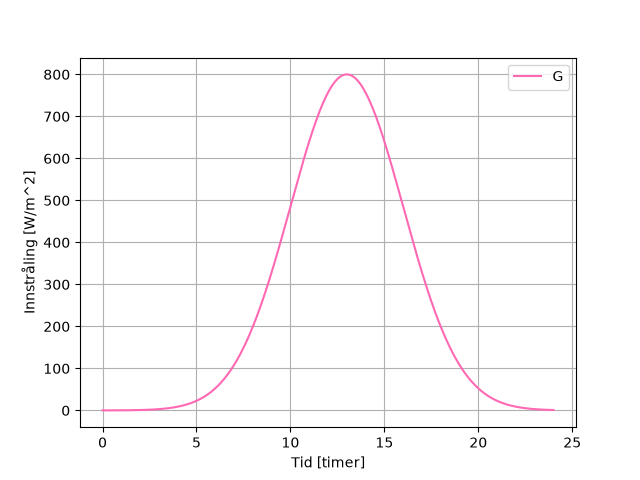
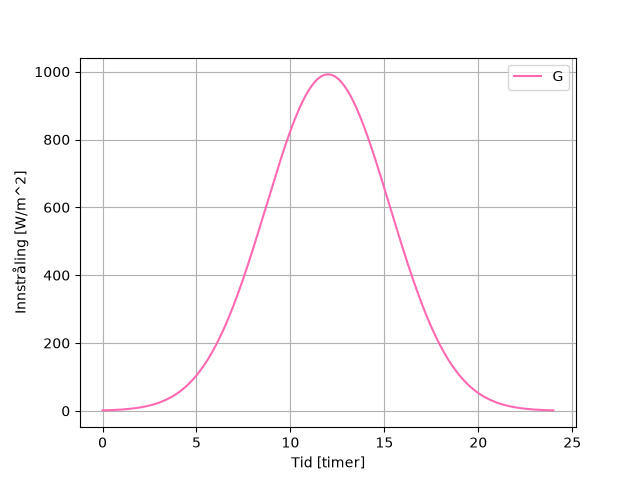
Oppgave 7: endrer modellen for å passe dataene, lagrer plot av resultatet

diff --git a/Oving6.py b/Oving6.py
@@ -8,9 +8,9 @@ import matplotlib.pyplot as plt
 t = np.linspace(0, 24, 1000)
 
 # gauss variabler
-A = 800 # maks innstråling
-mu = 13 # tidpunkt for maks innstråling
-sigma = 3 # bredden av toppen
+A = 992 # maks innstråling
+mu = 12 # tidpunkt for maks innstråling
+sigma = 3.3 # bredden av toppen
 
 # Gauss modell:
 G = A * np.exp(-(t - mu)**2 / (2 * sigma**2))
@@ -51,3 +51,11 @@ plt.legend(["Modell", "Data"])
 plt.grid(True)
 plt.savefig(r"C:\repos\ELK330-Oving6\Oppgave6.png")
 plt.show()
+
+# Oppgave 7
+# finner maks solinnstråling og tidspunkt for maks solinnstråling
+max = dag.max()
+tid_max = dag.idxmax()
+print(max)
+print(tid_max)
+# max ca. lik 992 og tidspunkt er 12, endrer verdiene til modellen
